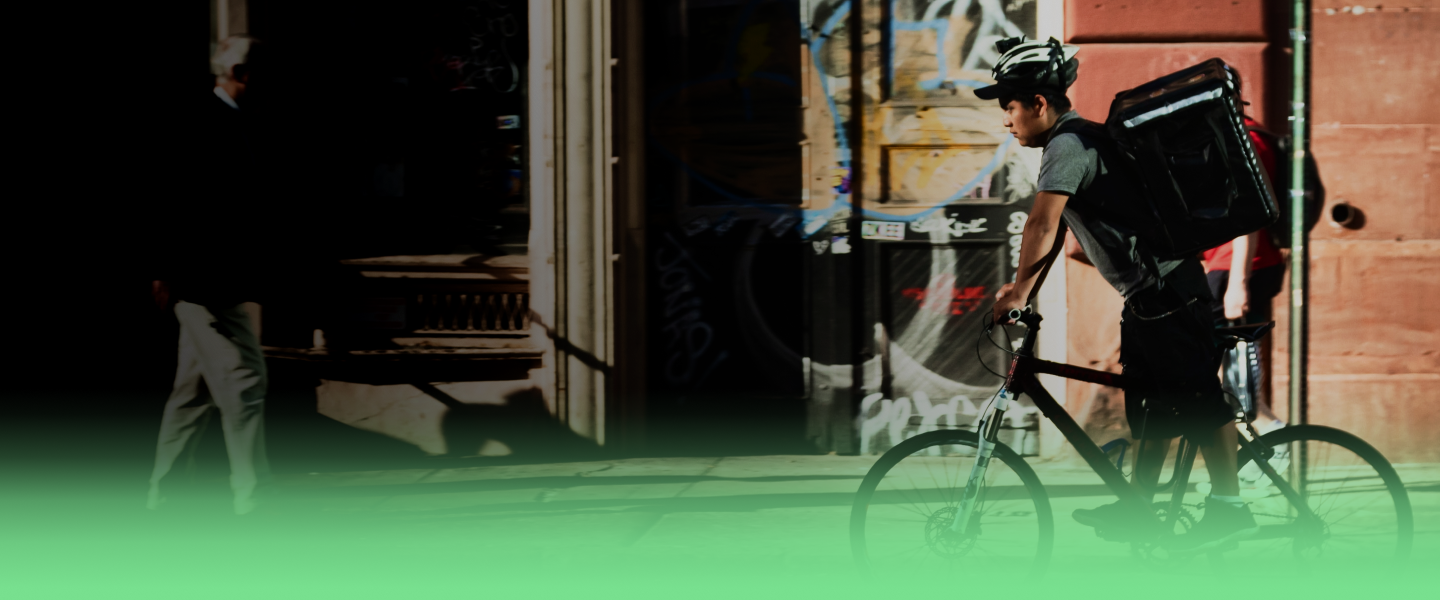
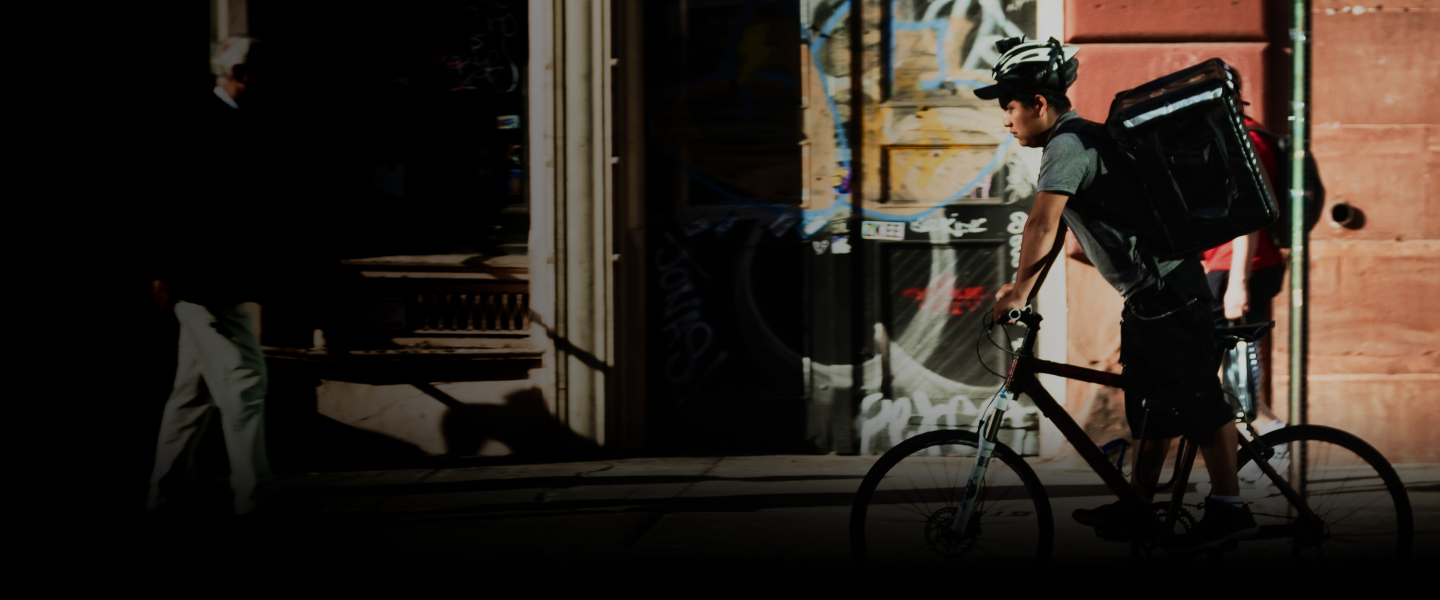
Hero images to black effect

Changed region(s): [[0.0, 0.69, 1.0, 1.0]]

diff --git a/src/components/home/hero/index.tsx b/src/components/home/hero/index.tsx
@@ -22,7 +22,7 @@ const Hero: React.FC = () => {
     <Section
       position="relative" 
       id="hero"
-      bgColor="primary"
+      bgColor="black"
       h={["auto", null, null, "560px", "560px", "600px"]} 
     >
       <Container 
